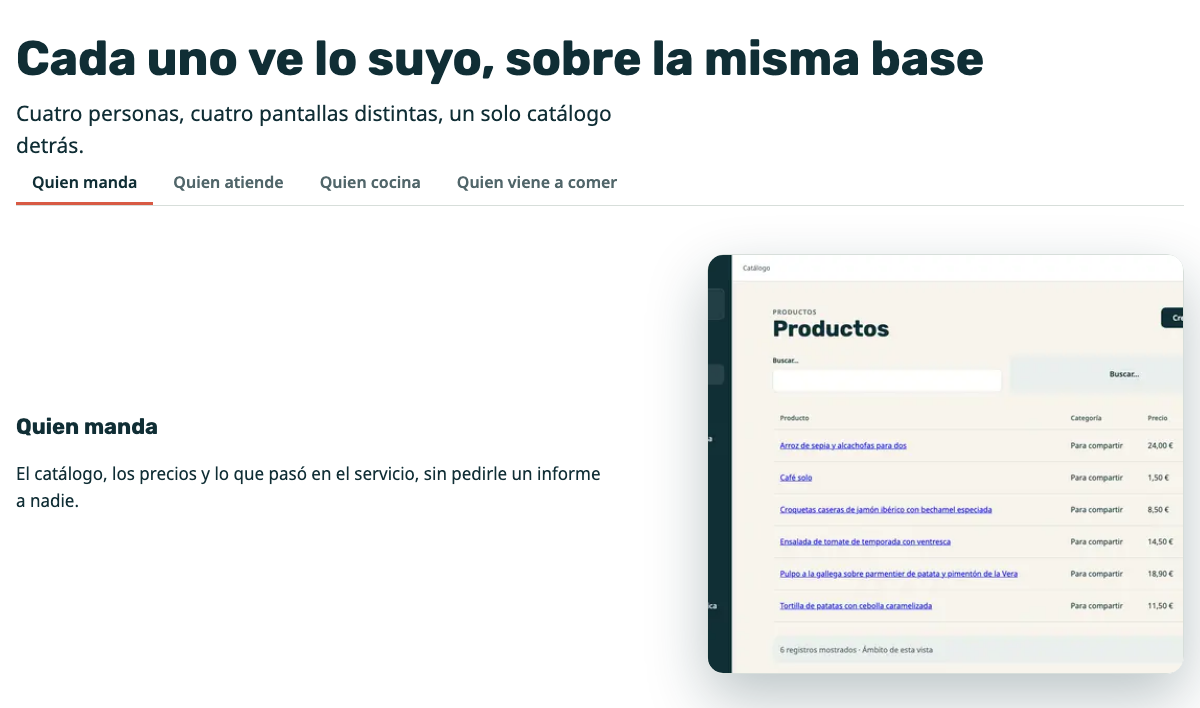
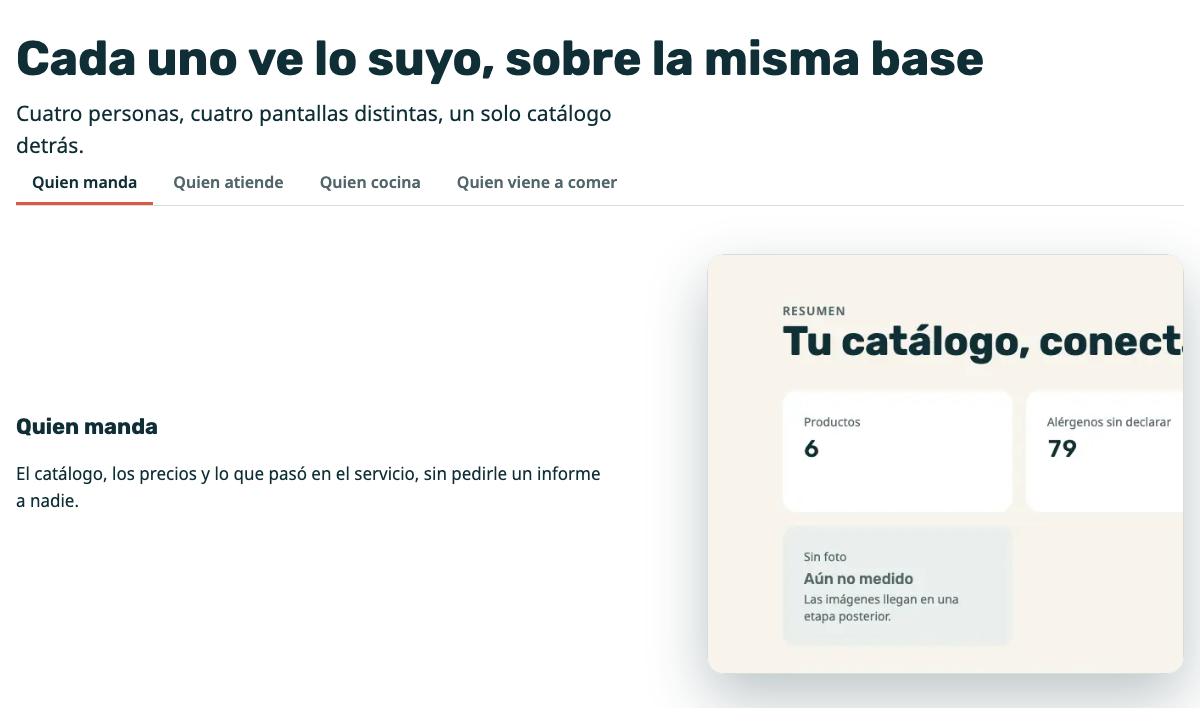
Bloco 4 verde, com as capturas a retratar 7e0a377
Os oito criterios passam e o criterio 6 passa nos quatro papeis: 11,9 11,9
11,9 e 13,9 px efectivos, sem ampliacao nenhuma.

Regista a cura (uma linha entre dois ficheiros), a razao de estar fora do
if (!jaExiste), os recortes como nomes proprios, e os tres lados do
criterio 6 agora todos plantados - incluindo porque o terceiro passou a
precisar de plante: os recortes calaram-no.

E deixa escrito o que vem a seguir e NAO agora: 12 de 13 sitios com o texto
abaixo dos 11px, e a propagacao tem de ser pela escolha da variante pela
ranhura, nao a mao em 13 sitios.

Claude-Session: https://claude.ai/code/session_01NBLb4xmcXVSfngcepm5hz6

diff --git a/docs/reviews/ALVO-BLOCO-4.md b/docs/reviews/ALVO-BLOCO-4.md
@@ -440,3 +440,58 @@ um commit meu.
 antes, nunca durante. Quis verificar a cura dos recortes assim que o commit apareceu e
 não corri por isto; verifica-se no tick seguinte, com ele quieto, e a espera custa
 menos do que a gravação perdida.
+
+---
+
+## VERDE. O bloco 4 fecha — 08/09
+
+`7e0a377`. **Os oito critérios passam**, e o critério 6 passa nos quatro papéis.
+
+| papel | fonte | servido | mostrado | nitidez | px efectivos |
+|---|---|---|---|---|---|
+| 1 catálogo | 560 | 560 | 477 | 0,852 | **11,9** |
+| 2 salão/tablet | 560 | 560 | 477 | 0,852 | **11,9** |
+| 3 KDS | 560 | 560 | 477 | 0,852 | **11,9** |
+| 4 carta | 390 | 390 | 388 | 0,995 | **13,9** |
+
+### A cura foi uma linha, e estava entre dois ficheiros
+
+A `CONTA_DA_DEMO` tinha **senha e nenhuma organização**; a Marta
+(`sala@bossaos.invalid`) tinha **a pertença e nenhuma senha**. A que entrava não
+pertencia, a que pertencia não entrava. Cada metade estava bem feita no seu
+ficheiro. A cura é a `membership` em `bossa-demo` na semeadura, junto de onde o
+utilizador nasce.
+
+**Fica FORA do `if (!jaExiste)` de propósito:** uma base onde a conta já existia
+sem pertença é exactamente a base que existe hoje, e um remendo que só corre em
+bases novas não cura nenhuma das que já andam por aí.
+
+**Não toquei no `carregarKds`:** o 404 era a guarda a acertar.
+
+### Os recortes, e o que quase entrou em vez deles
+
+Com a pertença, os três saem do inquilino **certo**: o KDS mostra «Croquetas
+caseras», «Pulpo a la gallega» e a comanda **A128** — o mesmo que o mestre. A
+primeira tentativa tinha apanhado `insp-Plato de cocina 1`, e a segunda o
+selector de organização com **200**.
+
+Ligados como **nomes próprios** — `catalogoRecorte`, `kdsRecorte`,
+`tabletRecorte` — e não por cima dos mestres: o mestre continua certo onde a
+ranhura é larga, e trocar a fonte partilhada curava um bloco e ampliava os
+outros. O `tabletRecorte` é o **salão** e não uma comanda, porque o `altTablet`
+diz «o mesmo salão num tablet» e trocar a imagem tornaria o texto falso.
+
+### Os três lados do critério 6, agora todos plantados
+
+1. **ausência** — as três acusações caladas sem defeito.
+2. **ampliação** — telefone esticado até 477: `AMPLIADO 1,22×`.
+3. **ilegibilidade** — mestre de 1440 de volta: `LEGIBILIDADE … 0,33× … 4,6px`,
+   **e não acusa o papel 4**, que está a 13,9.
+
+O terceiro passou a precisar de plante precisamente porque os recortes o
+calaram. Enquanto acusava sozinho, não precisava; a partir do momento em que
+ficou verde, uma acusação que ninguém viu recusar é uma frase.
+
+**E o plante do critério 3 morreu** quando troquei o papel 2 de composição.
+Apanhou-o a guarda `PLANTE-MORTO` do próprio plante — o controlo a proteger-se
+de mim.

diff --git a/docs/progress/HANDOFF.md b/docs/progress/HANDOFF.md
@@ -4449,3 +4449,28 @@ Resolvido isso, os três recortes saem.
 **O vermelho mantém-se**, como mandado: papéis 1, 2 e 3 a 4,6, 8,0 e 5,2 px; o
 papel 4 a 13,9. Os três lados do critério 6 ficam exercidos — ausência,
 ampliação plantada (`1,22×`), e a ilegibilidade a acusar de verdade sem plante.
+
+## Bloco 4 VERDE — 08/09
+
+`7e0a377`. Os oito critérios passam e o critério 6 passa nos **quatro** papéis:
+**11,9 / 11,9 / 11,9 / 13,9** px efectivos, nitidez 0,852/0,852/0,852/0,995 —
+nenhuma ampliação. Capturas em `docs/visual/rv100/2026-09-08_papeis`.
+
+**A cura foi uma linha entre dois ficheiros:** a `CONTA_DA_DEMO` tinha senha e
+nenhuma organização, a Marta tinha a pertença e nenhuma senha. A `membership` em
+`bossa-demo` passa a nascer na semeadura, **fora** do `if (!jaExiste)` — senão só
+curava bases novas, e a que existe hoje não é nova. O `carregarKds` não foi
+tocado: o 404 era a guarda a acertar.
+
+Os recortes de 560 entram como **nomes próprios** (`catalogoRecorte`,
+`kdsRecorte`, `tabletRecorte`), nunca por cima dos mestres, que continuam certos
+onde a ranhura é larga.
+
+**Controlo negativo com os três lados plantados:** ausência, `AMPLIADO 1,22×`, e
+`LEGIBILIDADE` com o mestre de volta — mais a verificação de que não acusa o
+papel 4.
+
+> **A seguir, e NÃO agora:** `docs/reviews/O-GROTESCO-NAO-E-DO-BLOCO-4.md` mostra
+> **12 de 13** sítios com o texto abaixo dos 11 px. Esta cura resolve **1**. A
+> propagação tem de ser pela **escolha da variante pela ranhura**, não à mão em
+> 13 sítios — senão o décimo quarto nasce errado.
